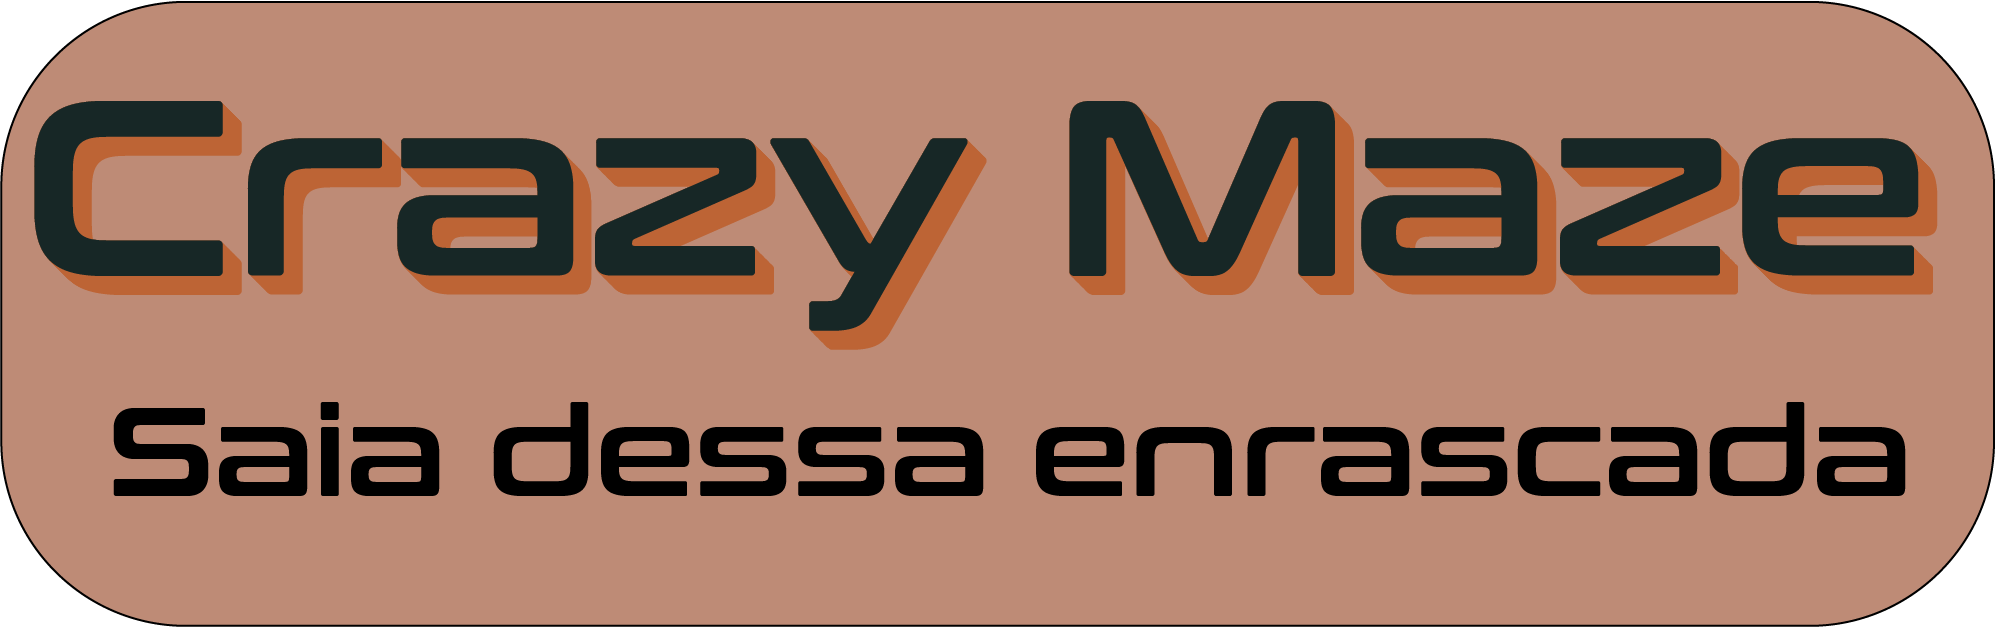
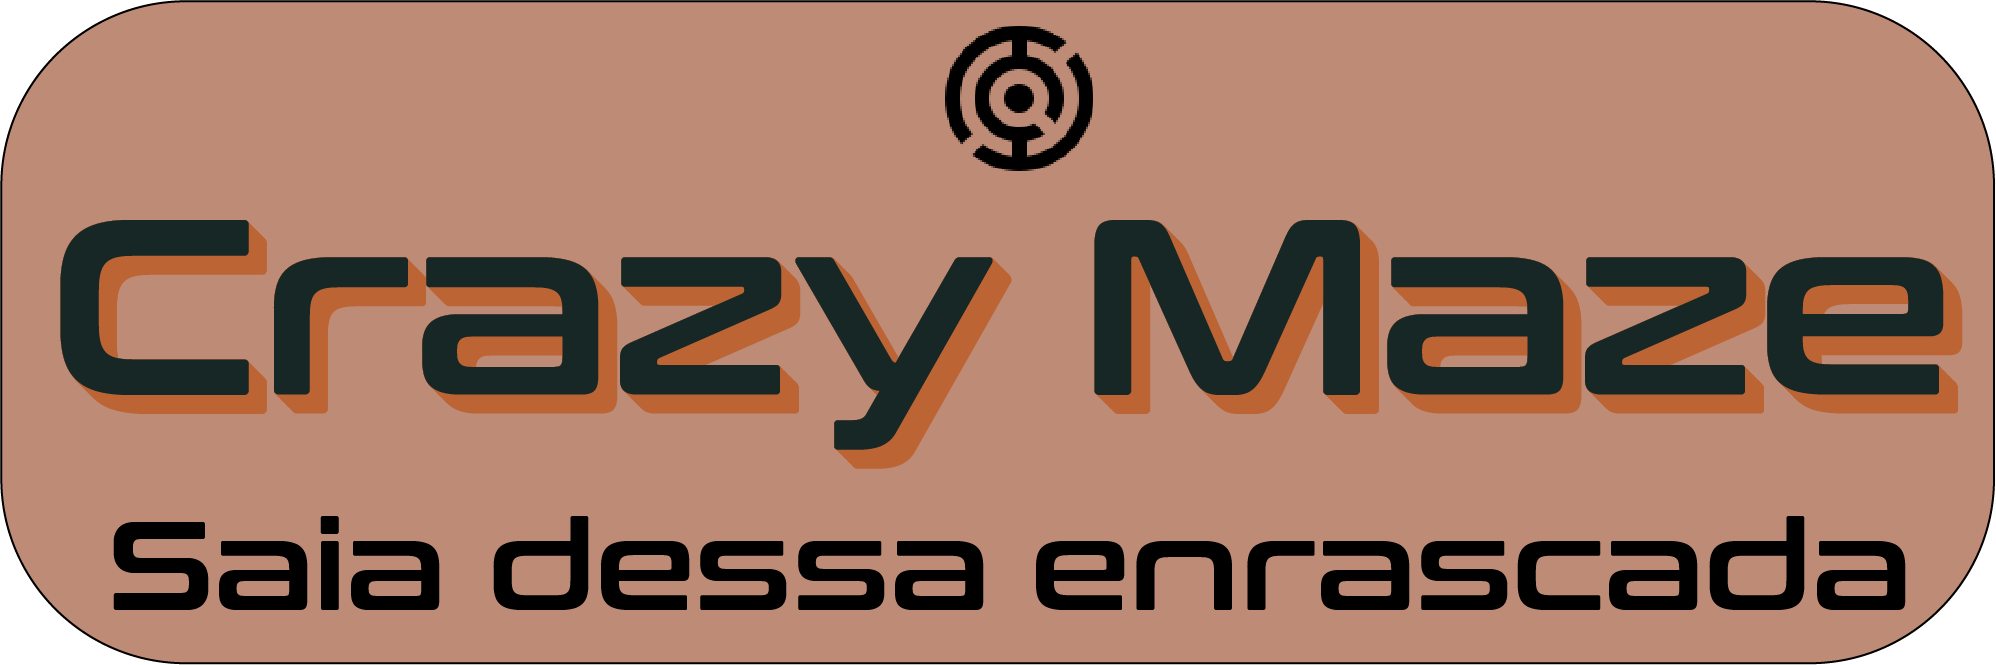
Fixing initial window

diff --git a/open_window.py b/open_window.py
@@ -5,6 +5,10 @@ MISSING = object()
 class Window:
 
     font_location = "fonts/conthrax-sb.ttf"
+    pressed_start_button = pygame.image.load("images/initial_button_pressed.png")
+    pressed_start_button = pygame.transform.scale(pressed_start_button, (int(720 / 2), int(231 / 2)))
+    start_button = pygame.image.load("images/initial_button.png")
+    start_button = pygame.transform.scale(start_button, (int(720 / 2), int(231 / 2)))
 
     def __init__(self, size, background):
         self.size = size
@@ -25,33 +29,14 @@ class Window:
             image = pygame.transform.scale(image, scale)
         self.window.blit(image, position)
 
-    def openWindow(self):
+    def initialWindow(self):
         pygame.display.set_caption("Crazy Maze")
         background_image = pygame.image.load(self.background)
         background_image = pygame.transform.scale(background_image, self.size)
+        self.window.blit(self.start_button, (self.size[0] / 2 - 180, 450))
         self.window.blit(background_image, (0, 0))
-        self.showImage("images/title_initial.png", (0, 40), (int(1996 / 2), int(627 / 2)))
-        self.showImage("images/maze.png", (self.size[0]/2 - 50, 150))
+        self.showImage("images/title_initial.png", (2, 40), (int(1996 / 2), int(667 / 2)))
 
-
-        game_loop = True
-        while game_loop:
-
-            mx, my = pygame.mouse.get_pos()
-
-            for event in pygame.event.get():
-
-                if (event.type == pygame.QUIT):
-                    game_loop = False
-
-            if (self.size[0]/2 - 180) <= mx <= (self.size[0]/2 + 180) and 450 <= my <= 555.5:
-                self.showImage("images/initial_button_pressed.png", (self.size[0] / 2 - 180, 450), (int(720 / 2), int(231 / 2)))
-            else:
-                self.showImage("images/initial_button.png", (self.size[0] / 2 - 180, 450), (int(720 / 2), int(231 / 2)))
-
-            pygame.display.flip()
-
-        pygame.quit()
 
 
 

diff --git a/start_game.py b/start_game.py
@@ -5,5 +5,24 @@ from open_window import *
 
 game_window = Window((1000,667), 'images/initial_background.jpg')
 
-game_window.openWindow()
+game_window.initialWindow()
 
+game_loop = True
+
+while game_loop:
+
+    mx, my = pygame.mouse.get_pos()
+
+    for event in pygame.event.get():
+
+        if (event.type == pygame.QUIT):
+            game_loop = False
+
+    if (game_window.size[0] / 2 - 180) <= mx <= (game_window.size[0] / 2 + 180) and 450 <= my <= 555.5:
+        game_window.window.blit(game_window.pressed_start_button, (game_window.size[0] / 2 - 180, 450))
+    else:
+        game_window.window.blit(game_window.start_button, (game_window.size[0] / 2 - 180, 450))
+
+    pygame.display.flip()
+
+pygame.quit()
